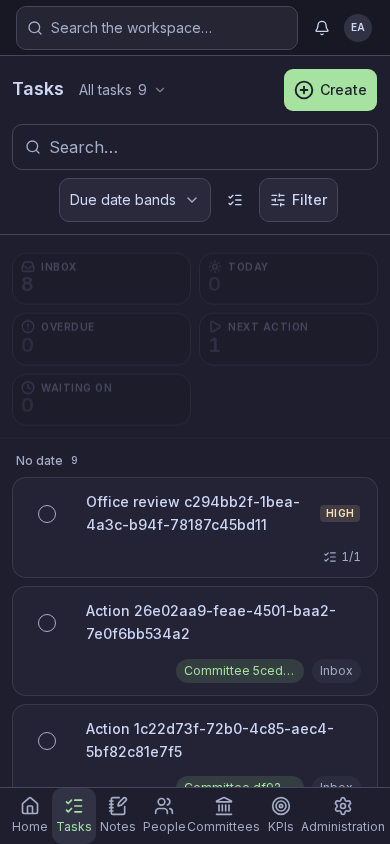
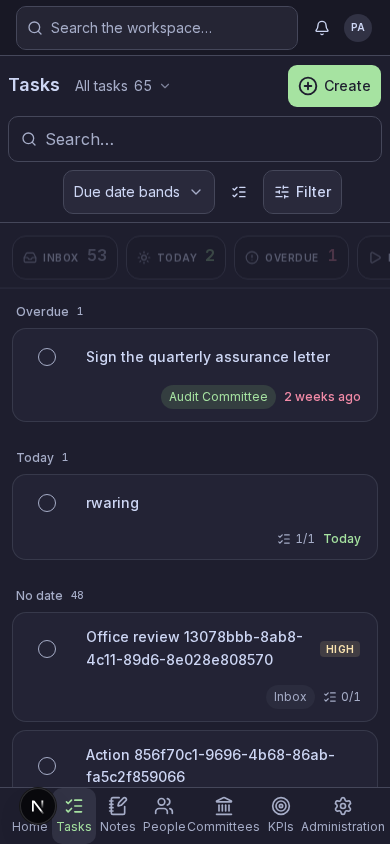
fix(ui): the phone list gets its rows back, and no control leaves the screen
A 390 px phone gives a list 732 px between the header and the bottom bar. Tasks was
spending 377 px of it on a bar and a statistics block before the first record, and KPIs
was drawing three of its fifty-two rows.

EP-B40 The featured readings are one scrolling line below the list container's @lg and the
two-column grid returns with the width to hold it: five readings in two columns is three
rows and an orphan with a hole beside it. The strip's snap positions are inset by its own
padding, or it rests scrolled by exactly that padding with its leading reading cut off.
The display stays on the base layer -- a second display utility behind a container query
out-orders the `xl:hidden` that keeps the strip away from a rail already showing the same
readings (EP-B35). The bar's padding and the gap between its wrapped lines step down at the
same width. First record: Tasks 433 -> 284 px, Notes 287 -> 224 px, Committees 373 -> 284 px.

EP-B39 The bar's settings group gives width back and wraps. It was `shrink-0`, so on a
module carrying a period as well as a sort it measured 509 px inside a 390 px screen: the
sort clipped mid-word and Filter and Clear rendered off the end, where nothing could reach
them. A wrapped line is the right price for a control the reader can press.

HOME-B13 A grid item does not shrink below its own min-content and a committee named after
a UUID has no break in it, so the phone's implicit column grew past its track and carried
[…]

diff --git a/src/ui/entity/EntityViews.tsx b/src/ui/entity/EntityViews.tsx
@@ -3,7 +3,7 @@ import { Fragment } from 'react';
 import { Button } from '@/ui/primitives/button';
 import { cn } from '@/ui/cn';
 import { useCount } from '@/ui/format';
-import type { Entity } from './types';
+import type { Entity, View } from './types';
 import type { Surface } from './surface';
 const toneInk: Record<string, string> = {
   danger: 'text-danger',
@@ -63,11 +63,16 @@ export function EntityViews<T extends Entity, P extends object, C>({
 // the strip re-draws five of them bigger, forty pixels below — the same facts twice, costing 85 px
 // of a desktop list and 198 px of a phone's. The strip is what a surface without a rail gets
 // instead of one, so it appears exactly where the rail is not.
+// EP-B40: a strip, not a block. Two columns turned five readings into three rows and an orphan
+// with a hole beside it — 198 px of a 732 px phone list, before a single record. Narrow, the
+// readings are one scrolling line and the strip costs a row; from @lg there is width for the grid
+// and the tiles stand up again. `scroll-px-3` matches the padding: a snap position is measured from
+// the scrollport edge, so without it the leading tile rests cut off by exactly the padding that was
+// supposed to inset it.
 export function EntityStats<T extends Entity, P extends object, C>({
   config,
   controller: c,
 }: Surface<T, P, C>) {
-  const count = useCount();
   const featured = config.filters.views
     .filter((view) => view.featured === true)
     .sort((a, b) => (a.featuredOrder ?? 1) - (b.featuredOrder ?? 1));
@@ -76,46 +81,71 @@ export function EntityStats<T extends Entity, P extends object, C>({
     <div
       data-entity-stats
       className={cn(
-        'grid grid-cols-2 gap-2 border-b px-3 py-3',
+        // The display stays on the base layer. `xl:hidden` above is a variant, and a second
+        // display utility behind a container query would out-order it, which is how the strip
+        // came back on a desktop that was already showing every reading in the rail (EP-B35).
+        // Narrow is therefore one grid row of content-sized tracks, not a flex line.
+        'grid snap-x scroll-px-3 grid-flow-col auto-cols-max gap-2 overflow-x-auto border-b px-3 py-2',
+        '@lg:grid-flow-row @lg:auto-cols-auto @lg:snap-none @lg:overflow-x-visible @lg:py-3',
         featured.length === 5 ? '@lg:grid-cols-5' : '@lg:grid-cols-4',
         c.railOpen && 'xl:hidden',
       )}
     >
-      {featured.map((view) => {
-        const value = c.list.summaryCounts?.[view.id] ?? c.list.counts[view.id] ?? 0;
-        const active = c.state.view === view.id;
-        const Icon = view.icon;
-        return (
-          <Button
-            key={view.id}
-            variant="ghost"
-            aria-pressed={active}
-            className={cn(
-              'h-auto min-w-0 flex-col items-start gap-1 px-2 py-1.5 text-start @lg:px-3 @lg:py-2',
-              'rounded-xl border',
-              active
-                ? 'border-accent/50 bg-accent-soft hover:bg-accent-soft'
-                : 'border-border bg-bg/60 hover:bg-surface-raised',
-            )}
-            onClick={() => c.navigate({ view: view.id }, true)}
-          >
-            <span className="flex w-full min-w-0 items-center gap-1.5 text-[10px] font-semibold tracking-wider text-text-muted uppercase">
-              {Icon && <Icon className="size-3.5 shrink-0 opacity-70" aria-hidden />}
-              <span className="truncate">{view.label}</span>
-            </span>
-            <span
-              key={value}
-              className={cn(
-                'count-tick text-xl leading-none font-semibold tabular-nums @lg:text-2xl',
-                value === 0 && 'text-text-muted',
-                value > 0 && view.tone && toneInk[view.tone],
-              )}
-            >
-              {count(value)}
-            </span>
-          </Button>
-        );
-      })}
+      {featured.map((view) => (
+        <FeaturedReading
+          key={view.id}
+          view={view}
+          active={c.state.view === view.id}
+          value={c.list.summaryCounts?.[view.id] ?? c.list.counts[view.id] ?? 0}
+          open={() => c.navigate({ view: view.id }, true)}
+        />
+      ))}
     </div>
+  );
+}
+// One reading: its name and its figure, on a line while the strip scrolls and stacked once the
+// strip is a grid.
+function FeaturedReading({
+  view,
+  active,
+  value,
+  open,
+}: {
+  view: View;
+  active: boolean;
+  value: number;
+  open: () => void;
+}) {
+  const count = useCount();
+  const Icon = view.icon;
+  return (
+    <Button
+      variant="ghost"
+      aria-pressed={active}
+      className={cn(
+        'h-auto min-w-0 shrink-0 snap-start flex-row items-center gap-2 px-2.5 py-1.5',
+        '@lg:shrink @lg:flex-col @lg:items-start @lg:gap-1 @lg:px-3 @lg:py-2',
+        'rounded-xl border text-start',
+        active
+          ? 'border-accent/50 bg-accent-soft hover:bg-accent-soft'
+          : 'border-border bg-bg/60 hover:bg-surface-raised',
+      )}
+      onClick={open}
+    >
+      <span className="flex min-w-0 items-center gap-1.5 text-[10px] font-semibold tracking-wider text-text-muted uppercase @lg:w-full">
+        {Icon && <Icon className="size-3.5 shrink-0 opacity-70" aria-hidden />}
+        <span className="truncate">{view.label}</span>
+      </span>
+      <span
+        key={value}
+        className={cn(
+          'count-tick text-base leading-none font-semibold tabular-nums @lg:text-2xl',
+          value === 0 && 'text-text-muted',
+          value > 0 && view.tone && toneInk[view.tone],
+        )}
+      >
+        {count(value)}
+      </span>
+    </Button>
   );
 }

diff --git a/e2e/entity-framework.spec.ts b/e2e/entity-framework.spec.ts
@@ -143,3 +143,53 @@ test('EP-B26 the record slides over the list instead of displacing it @desktop',
   const after = await list.boundingBox();
   expect(after?.width).toBeCloseTo(closed?.width ?? 0, 0);
 });
+
+// EP-B39: nothing in the bar may sit past the end of the screen. The settings group used to be
+// `shrink-0`, so on a module carrying a period as well as a sort it measured 509 px inside a
+// 390 px viewport: the sort clipped mid-word and Filter and Clear rendered off the end, where no
+// pointer could reach them. Measured, not asserted on classes — the failure was a computed width.
+for (const width of [320, 390]) {
+  test(`EP-B39 every toolbar control stays on screen at ${width} px`, async ({ page }) => {
+    await loginAs(page, 'en');
+    await page.setViewportSize({ width, height: 844 });
+    await page.goto('/kpis?view=all');
+    const toolbar = page.locator('.entity-toolbar');
+    await expect(toolbar).toBeVisible();
+    const overflowing = await toolbar.evaluate((bar) =>
+      [...bar.querySelectorAll('button, input, [role="group"]')]
+        .filter((control) => {
+          const box = control.getBoundingClientRect();
+          return box.width > 0 && box.height > 0 && box.right > window.innerWidth + 1;
+        })
+        .map((control) => control.textContent?.trim().slice(0, 30) ?? control.tagName),
+    );
+    expect(overflowing).toEqual([]);
+    // The one the reader loses first when the group cannot give width back.
+    await expect(page.getByRole('button', { name: /^Filter$/ })).toBeInViewport();
+  });
+}
+
+// EP-B40: the featured readings are one line on a phone. Two columns made five readings three rows
+// and an orphan with a hole beside it, which cost 198 px of a 732 px list before a single record.
+test('EP-B40 featured readings are one row on a phone', async ({ page }) => {
+  await loginAs(page, 'en');
+  await page.setViewportSize({ width: 390, height: 844 });
+  await page.goto('/tasks?view=all');
+  const strip = page.locator('[data-entity-stats]');
+  await expect(strip).toBeVisible();
+  const laid = await strip.evaluate((bar) => {
+    const tiles = [...bar.children].map((tile) => tile.getBoundingClientRect());
+    return {
+      rows: new Set(tiles.map((tile) => Math.round(tile.top))).size,
+      height: Math.round(bar.getBoundingClientRect().height),
+      // The strip must rest where it was painted: a snap position that ignores the padding leaves
+      // it scrolled by exactly that padding, with the leading reading cut off.
+      scrolled: bar.scrollLeft,
+      firstInset: Math.round(tiles[0]!.left),
+    };
+  });
+  expect(laid.rows).toBe(1);
+  expect(laid.height).toBeLessThanOrEqual(80);
+  expect(laid.scrolled).toBe(0);
+  expect(laid.firstInset).toBeGreaterThan(0);
+});

diff --git a/e2e/home.spec.ts b/e2e/home.spec.ts
@@ -1,0 +1,40 @@
+import { test, expect } from '@playwright/test';
+import { loginAs } from './fixtures/auth';
+
+// HOME-B13: a grid item does not shrink below its own min-content, and a committee named after a
+// UUID has no break in it, so the column grew past its track and carried every section's "View
+// all" off the end of the screen. The `lg` template already said `minmax(0, …)`; the implicit
+// single column of a phone needed saying too.
+//
+// The assertion is on the columns and on the one control the overflow takes away. Sweeping the
+// whole subtree for boxes past the edge does not work here: the shell root is `overflow-hidden`,
+// so every overflowing box has a clipping ancestor and a filter written that way passes whatever
+// the page does.
+test('HOME-B13 no section runs past the end of a phone screen', async ({ page }) => {
+  await loginAs(page, 'en');
+  await page.setViewportSize({ width: 390, height: 844 });
+  await page.goto('/home');
+  const columns = page.locator('.home-column');
+  await expect(columns.first()).toBeVisible();
+  const widths = await columns.evaluateAll((nodes) =>
+    nodes.map((node) => ({
+      width: Math.round(node.getBoundingClientRect().width),
+      right: Math.round(node.getBoundingClientRect().right),
+      limit: window.innerWidth,
+    })),
+  );
+  expect(widths.length).toBeGreaterThan(0);
+  for (const column of widths) expect(column.right).toBeLessThanOrEqual(column.limit);
+
+  // Every section's way into the module has to be reachable, which is what the overflow removed.
+  // The axis under test is the horizontal one: a link further down the page is off screen because
+  // the page scrolls, which is not the defect.
+  const links = page.getByRole('link', { name: 'View all' });
+  expect(await links.count()).toBeGreaterThan(0);
+  const past = await links.evaluateAll((nodes) =>
+    nodes
+      .filter((node) => node.getBoundingClientRect().right > window.innerWidth + 1)
+      .map((node) => Math.round(node.getBoundingClientRect().right)),
+  );
+  expect(past).toEqual([]);
+});

diff --git a/src/ui/entity/EntityControls.tsx b/src/ui/entity/EntityControls.tsx
@@ -40,8 +40,11 @@ export function EntityToolbar<T extends Entity, P extends object, C>({
 }: Surface<T, P, C>) {
   const t = useTranslations('common');
   return (
-    <div className="entity-toolbar sticky top-0 z-10 space-y-3 border-b bg-surface p-3">
-      <div className="flex w-full min-w-0 flex-wrap items-center gap-x-2 gap-y-3">
+    // EP-B40: the bar pays for itself in rows. Where it has to wrap — a phone, or the list beside
+    // an open record — the padding and the gap between its lines come in a step, because three
+    // wrapped rows at desktop spacing cost 24 px of a screen that has 732 px for records.
+    <div className="entity-toolbar sticky top-0 z-10 space-y-2 border-b bg-surface p-2 @lg:space-y-3 @lg:p-3">
+      <div className="flex w-full min-w-0 flex-wrap items-center gap-x-2 gap-y-2 @lg:gap-y-3">
         <div className="flex min-w-0 flex-1 basis-auto items-center gap-2 @lg:flex-none">
           <Button
             variant="ghost"
@@ -114,7 +117,11 @@ function EntityToolbarControls<T extends Entity, P extends object, C>({
       <div className="flex min-w-0 flex-1 basis-56">
         <EntitySearch key={c.searchReset} query={c.state.q} navigate={c.navigate} />
       </div>
-      <div className="ms-auto flex shrink-0 flex-wrap items-center gap-2">
+      {/* EP-B39: the settings group wraps and gives width back like everything else in the bar. It
+          was `shrink-0`, which on a module carrying a period as well as a sort (KPIs) made the
+          group 509 px wide inside a 390 px screen — the sort clipped mid-word and Filter and Clear
+          rendered past the edge, where nothing could reach them. */}
+      <div className="ms-auto flex min-w-0 flex-wrap items-center gap-2">
         {!covered && <EntityListSettings config={config} controller={c} />}
         <Button
           variant={count ? 'secondary' : 'outline'}

diff --git a/src/modules/home/ui/HomePage.tsx b/src/modules/home/ui/HomePage.tsx
@@ -5,7 +5,7 @@ import { ErrorPanel } from '@/ui/layout/ErrorPanel';
 import { Greeting } from './HomeGreeting';
 import { Stream } from './HomeStream';
 import { ambient, type Section } from './home-sections';
-const page = 'mx-auto max-w-[1400px] px-6 py-8 lg:px-10 lg:py-10';
+const page = 'mx-auto max-w-[1400px] px-6 py-6 lg:px-10 lg:py-10';
 export function HomePage() {
   const t = useTranslations('home');
   const query = useHome();
@@ -35,14 +35,18 @@ export function HomePage() {
         <>
           {lead && <Stream section={lead} lead />}
           {rest.length > 0 && (
-            <div className="mt-10 grid gap-x-14 gap-y-10 lg:grid-cols-[minmax(0,1.5fr)_minmax(0,1fr)]">
-              <div className="home-column flex flex-col gap-10">
+            <div className="mt-6 grid gap-x-14 gap-y-6 lg:mt-10 lg:gap-y-10 lg:grid-cols-[minmax(0,1.5fr)_minmax(0,1fr)]">
+              {/* A grid item will not shrink below its own min-content, and a committee named
+                  after a UUID has no break in it, so the column grew past the track and carried
+                  every section's "View all" off the end of the screen with it. The `lg` template
+                  already says `minmax(0, …)`; the implicit single column needs saying too. */}
+              <div className="home-column flex min-w-0 flex-col gap-6 lg:gap-10">
                 {carrying.map((section) => (
                   <Stream key={section.key} section={section} />
                 ))}
               </div>
               {reference.length > 0 && (
-                <div className="home-column home-column-quiet flex flex-col gap-10">
+                <div className="home-column home-column-quiet flex min-w-0 flex-col gap-6 lg:gap-10">
                   {reference.map((section) => (
                     <Stream key={section.key} section={section} quiet />
                   ))}

diff --git a/src/modules/home/ui/HomeStream.tsx b/src/modules/home/ui/HomeStream.tsx
@@ -27,11 +27,11 @@ export function Stream({
   return (
     <section
       className={
-        lead ? 'home-rise home-lead mt-8 rounded-xl border bg-surface px-5 py-4 lg:px-6' : ''
+        lead ? 'home-rise home-lead mt-6 rounded-xl border bg-surface px-4 py-4 lg:mt-8 lg:px-6' : ''
       }
     >
       <div className="flex items-baseline justify-between gap-4 border-b pb-2">
-        <div className="flex items-baseline gap-2.5">
+        <div className="flex min-w-0 items-baseline gap-2.5">
           <h2
             className={`truncate ${quiet ? 'text-sm font-medium text-text-muted' : 'text-base font-semibold'}`}
           >
@@ -131,8 +131,11 @@ function RowFacts({ item, sectionKey }: { item: Item; sectionKey: SectionKey }) 
   const late = sectionKey === 'committees' ? (item.overdue ?? 0) : 0;
   return (
     <span className="mt-1 flex flex-wrap items-center gap-x-2 text-xs text-text-muted">
+      {/* A fact is user text of any length. `truncate` alone does not shrink a flex item — its
+          automatic minimum is its content — so one unbroken committee name stretched the section
+          past the screen and took the row's "View all" off the end of it with it. */}
       {facts.map((fact) => (
-        <bdi key={fact} className="truncate">
+        <bdi key={fact} className="min-w-0 truncate">
           {fact}
         </bdi>
       ))}

diff --git a/docs/features/entity-pages.md b/docs/features/entity-pages.md
@@ -131,6 +131,22 @@ Twelve top-level props is the ceiling (`07-coding-guidelines.md`); related optio
   filter sheet does not carry a third copy of it beside the bar's control and the table's headers
   (EP-B31). A `filters.mode` is the same: EP-B28 already says it travels with the facets and is not
   one, and counting it was what made choosing a period light up "Filters · 1" and widen the button.
+- EP-B40 The bar and the readings above it are measured in rows of a phone, not in pixels of a
+  desktop. The featured readings are a single scrolling line below 1024 px (`@lg` on the list
+  container), each reading one row of name and figure, and the two-column grid returns with the
+  width to hold it: five readings in two columns is three rows and an orphan with a hole beside it,
+  which cost 198 px of the 732 px a 390 px phone has for records. The strip's snap positions are
+  inset by its own padding, or it rests scrolled by exactly that padding with its leading reading
+  cut off. The bar's own padding and the gap between its wrapped lines step down at the same width,
+  because three wrapped lines at desktop spacing is a row of records. Measured on a 390 px screen
+  with seeded data, this moves the first record of Tasks from 433 px to 284 px and of Notes from
+  287 px to 224 px.
+- EP-B39 No control in the bar sits past the end of the screen. The settings group gives width back
+  and wraps like everything else in the bar; it was `shrink-0`, which on a module carrying a period
+  as well as a sort (KPIs) measured 509 px inside a 390 px viewport — the sort clipped mid-word and
+  Filter and Clear rendered off the end, where nothing could reach them. A wrapped line is the cost
+  of keeping every control reachable, and it is the right one: a control the reader cannot press is
+  not a saving.
 - EP-B32 The bar is one wrapping row, not two fixed ones. The title and the controls are two flex
   items that share a line wherever the list is wide enough to hold both and stack where it is not, so
   a desktop list opens with a 67 px header and a phone still gets the two-row form, without either

diff --git a/docs/features/home.md b/docs/features/home.md
@@ -75,6 +75,13 @@ The one screen the principal opens first. It is a set of queries over existing m
   which is the same statement the meter already makes, made once on arrival. The motion is
   decoration over a page that is already correct: under `prefers-reduced-motion: reduce` none of it
   runs and every block is at its resting position and full opacity on the first frame.
+- HOME-B13 A section never runs past the end of the screen. A grid item does not shrink below its
+  own min-content and a committee named after a UUID has no break in it, so on a phone — where the
+  columns are one implicit track rather than the `minmax(0, …)` template of 1024 px and up — the
+  column grew past its track and carried every section's "View all" off the end with it. The
+  columns declare their own zero minimum, and the facts under a row truncate rather than push. The
+  spacing between sections steps down below 1024 px for the same reason the entity bar's does
+  (EP-B40): a 40 px gap between blocks is a row of records on a screen that has ten of them.
 - HOME-B06 Section ownership is exclusive and checked centrally when the providers are collected: a key claimed by two modules, or a key no section list declares, fails the request with the owning key named. Collapsing to the first match would make the page depend on module import order and let a section disappear silently.
 
 ## Known gap

diff --git a/docs/05-ui-guidelines.md b/docs/05-ui-guidelines.md
@@ -65,6 +65,12 @@ All list + detail modules use `src/ui/entity` per `features/entity-pages.md`. Pa
 ## Mobile
 
 - Safe areas on shell, bottom nav, sheets. Touch targets ≥ 44px. No hover-only affordances.
+- **Chrome is measured in rows of records.** A phone gives a list 732 px under the header and over
+  the bottom bar; a bar and a strip that read well on a desktop can take half of it before the
+  first record. Padding, the gap between a wrapped bar's lines, and the featured readings all step
+  down below the list container's `@lg` (EP-B40), and the readings become one scrolling line rather
+  than a two-column block. A control is never the thing that is dropped to save the space: anything
+  in the bar that cannot fit wraps and stays reachable (EP-B39).
 - Bottom sheets for pickers on touch; popovers on desktop; one picker component chooses by pointer type, not width.
 - Pull-to-refresh via `refetch`.
 - PWA manifest and icons; service worker caches the app shell only and excludes `/api/` and file downloads (`Cache-Control: no-store` respected). No push in v1.
